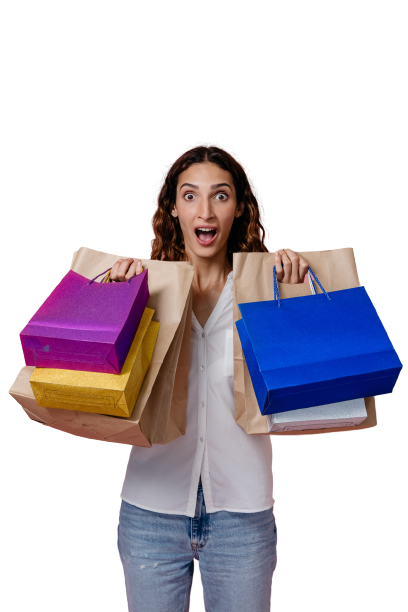
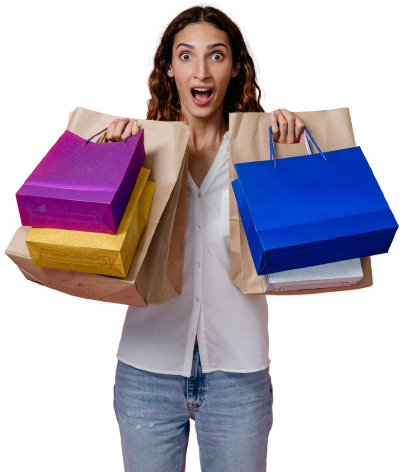
edited UI of Home page

diff --git a/src/pages/Home.jsx b/src/pages/Home.jsx
@@ -1,25 +1,26 @@
 import Category from "./Category";
-import Carousel from "../components/Carousel";
 import shoppingWoman from "../images/womanShopping.png";
 import Form from "../components/Form";
+import Footer from "../components/Footer";
 
 const Home = () => {
   return (
     <>
-      <div className="d-flex justify-content-center front-view-card text-light">
-        <div className="front-box-sizing p-5">
-          <h1 className="text-center">
-            ONLINE SHOPPING MADE
-            <span style={{ color: "#FF6A3D" }}> EASY </span>
-          </h1>
-          <p className="fs-5">
-            Browse through our quality online products and have them delivered
-            to you at your doorstep
-          </p>
-        </div>
-
-        <div className="front-box-sizing pt-5">
-          <img src={shoppingWoman} alt="" style={{ width: "200px" }} />
+      <div className="container-fluid  front-view-card bg-light text-dark  border-bottom  ">
+        <div className="row d-flex justify-content-center align-items-center  px-5">
+          <div className=" col-md-6">
+            <h1 className="d-block text-center ">
+              ONLINE SHOPPING MADE
+              <span style={{ color: "#FF6A3D" }}> EASY </span>
+            </h1>
+            <p className="fs-5">
+              Browse through our quality online products and have them delivered
+              to you at your doorstep
+            </p>
+          </div>
+          <div className="  d-flex justify-content-center align-items-center col-md-6">
+            <img className=" image-fluid" src={shoppingWoman} alt="" />
+          </div>
         </div>
       </div>
       <Category />
@@ -37,9 +38,9 @@ const Home = () => {
             </p>
           </span>
         </h2>
-        {/* <Carousel /> */}
       </div>
       <Form />
+      <Footer />
     </>
   );
 };

diff --git a/src/App.js b/src/App.js
@@ -12,24 +12,22 @@ import { Modal } from "bootstrap";
 
 function App() {
   return (
-    <>
-      <CartProvider>
-        <NavBar />
-        <div className="mt-5">
-          <BrowserRouter>
-            <Routes>
-              <Route path="/" element={<Home />} />
-              <Route path="/category" element={<Category />} exact />
-              <Route
-                path="/category/:categoryId"
-                element={<CategoryContainer />}
-              />
-              <Route path="*" element={<ErrorPage />}></Route>
-            </Routes>
-          </BrowserRouter>
-        </div>
-      </CartProvider>
-    </>
+    <CartProvider>
+      <NavBar />
+      <div className="mt-5">
+        <BrowserRouter>
+          <Routes>
+            <Route path="/" element={<Home />} />
+            <Route path="/category" element={<Category />} exact />
+            <Route
+              path="/category/:categoryId"
+              element={<CategoryContainer />}
+            />
+            <Route path="*" element={<ErrorPage />}></Route>
+          </Routes>
+        </BrowserRouter>
+      </div>
+    </CartProvider>
   );
 }
 

diff --git a/src/pages/Electronics.jsx b/src/pages/Electronics.jsx
@@ -34,16 +34,20 @@ const Electronics = () => {
       ) : (
         <div className="container pt-5">
           <ShoppingPageBackButton />
-          <div className="row row-cols-3">
+          <div className="row">
             {shoppingItems?.map((shoppingItem) => {
               return (
-                <CategoryCardItem
+                <div
+                  className="col-sm-12 col-md-6 col-lg-4"
                   key={shoppingItem.id}
-                  id={shoppingItem.id}
-                  image={shoppingItem.image}
-                  price={shoppingItem.price}
-                  title={shoppingItem.title}
-                />
+                >
+                  <CategoryCardItem
+                    id={shoppingItem.id}
+                    image={shoppingItem.image}
+                    price={shoppingItem.price}
+                    title={shoppingItem.title}
+                  />
+                </div>
               );
             })}
           </div>

diff --git a/src/components/Footer.jsx b/src/components/Footer.jsx
@@ -1,0 +1,35 @@
+const Footer = () => {
+  return (
+    <div
+      className="text-light text-center px-5 py-5"
+      style={{ background: "#1a2238" }}
+    >
+      <div className="d-flex justify-content-evenly ">
+        <div>
+          <h1>Product</h1>
+          <p>Mens category</p>
+          <p>Jewelry category</p>
+          <p>Clothing category</p>
+          <p>Womens category</p>
+        </div>
+        <div>
+          <h1>Support</h1>
+          <p>Help</p>
+          <p>Shipping</p>
+          <p>Order Tracking</p>
+          <p>Customer Service</p>
+          <p>Return and Exchanges</p>
+        </div>
+        <div>
+          <h1>About Us</h1>
+          <p>Career</p>
+          <p>Company apps</p>
+          <p>Jewelry category</p>
+          <p>Clothing category</p>
+        </div>
+      </div>
+    </div>
+  );
+};
+
+export default Footer;

diff --git a/src/components/CardItem.jsx b/src/components/CardItem.jsx
@@ -2,14 +2,13 @@ import { Link } from "react-router-dom";
 
 const CardItem = (props) => {
   return (
-    <div className="d-flex justify-content-between shadow-lg category ">
-      <div className="p-2 ">
-        <img src={props.image} />
-        <div>
+    <div className="container">
+      <div className="card text-bg-dark">
+        <img src={props.image} className="card-img category-image" alt="..." />
+        <div className="card-img-overlay">
+          <h1 className="card-text text-dark"> {props.name}</h1>
           <Link to={`/category/${props.id}`}>
-            <p className="text-center" style={{ color: "#FF6A3D" }}>
-              {props.name}
-            </p>
+            <button className=" btn btn-warning text-center">Shop now</button>
           </Link>
         </div>
       </div>

diff --git a/src/components/CategoryCardItem.jsx b/src/components/CategoryCardItem.jsx
@@ -35,12 +35,13 @@ const CategoryCardItem = (props) => {
   // console.log(matchingId);
 
   return (
-    <div className="px-2 py-5  cols-3" id={props.id}>
+    <div className="px-2 py-5" id={props.id}>
       <div className="d-flex justify-content-center align-items-center bg-transparent h-75 w-100 g-1">
         <img
           src={props.image}
           className="g-1 bg-image hover-zoom"
           style={{ width: "270px", height: "250px" }}
+          alt=""
         />
       </div>
 
@@ -93,6 +94,7 @@ const CategoryCardItem = (props) => {
             data-bs-toggle="modal"
             data-bs-target="#exampleModal"
             onClick={matchingId}
+            href=" "
           >
             <FontAwesomeIcon icon={faCircleInfo} /> More...
           </a>

diff --git a/src/index.css b/src/index.css
@@ -42,14 +42,15 @@ a {
   width: 424px;
 }
 
-.front-view-card {
+/* .front-view-card {
   background: #1a2238;
-}
+} */
 
 .category-image {
-  width: 300px;
-  height: 350px;
   background-size: cover;
+  object-fit: cover;
+  width: 100%;
+  height: 60vh;
 }
 
 .category {
@@ -161,9 +162,3 @@ a {
   /* background-image: linear-gradient(to right,  rgba(255,106,61,0.2), rgba(255,106,61,0.8)); */
 }
 
-.formImage{
-
-  height: 10rem;
-  width: 10rem;
-
-}
